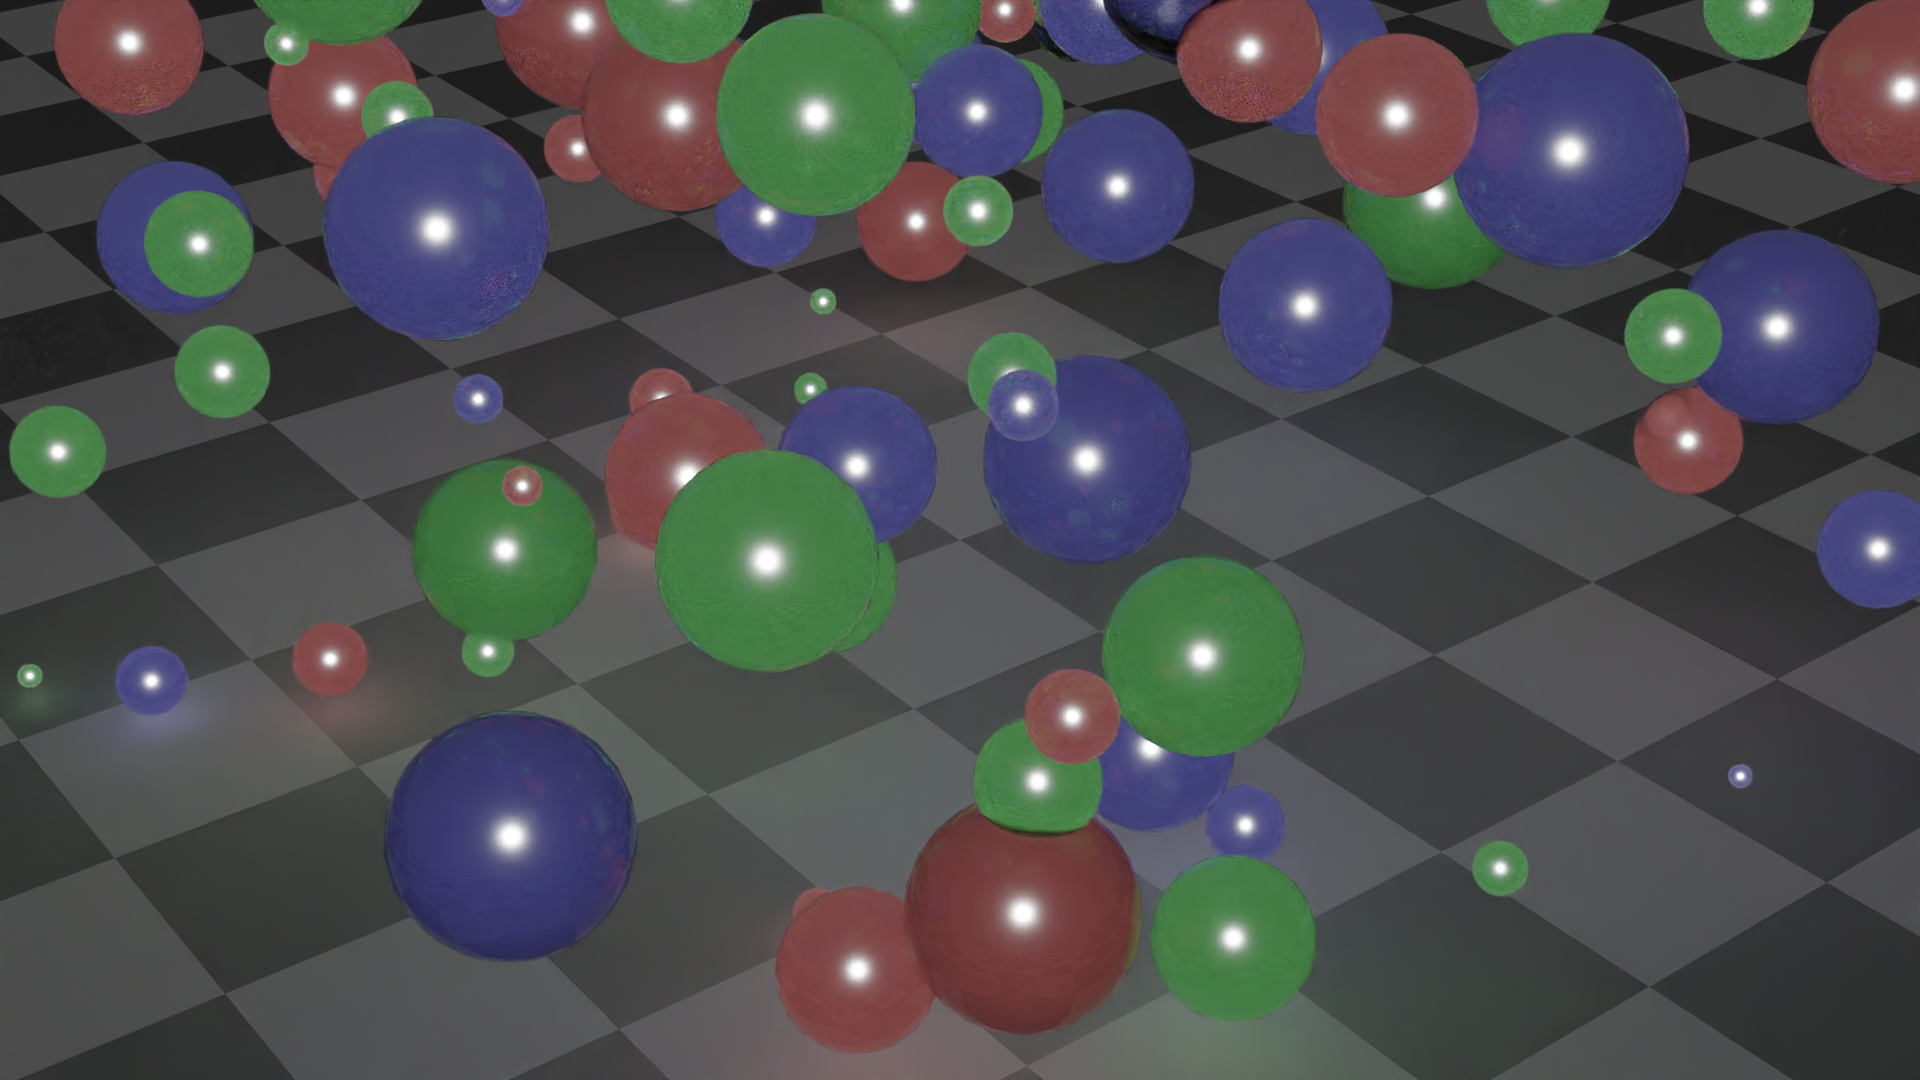
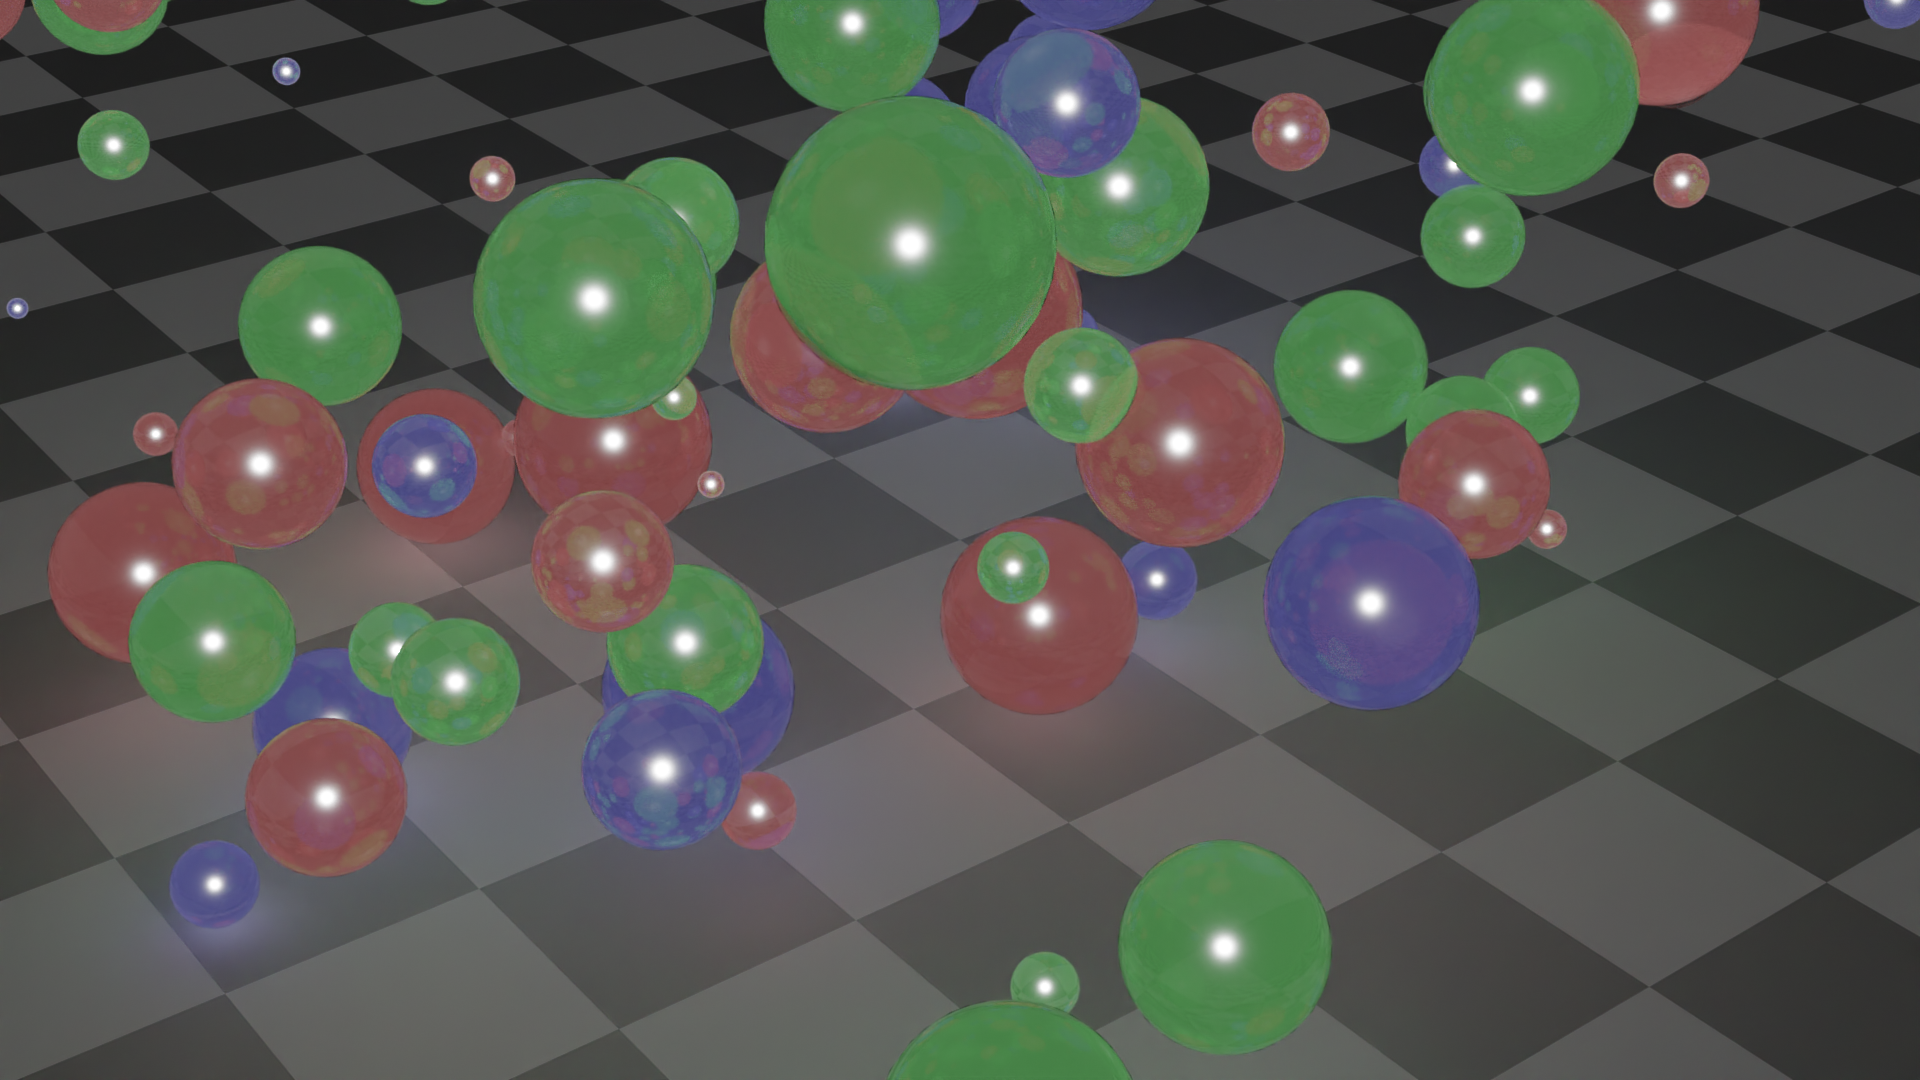
Reduce orb density to 1

diff --git a/orbs/run.py b/orbs/run.py
@@ -27,7 +27,7 @@ def setup_orb_material(mat, color):
     surface.inputs['IOR'].default_value = 1.45
 
     volume.inputs['Color'].default_value = color
-    volume.inputs['Density'].default_value = 3
+    volume.inputs['Density'].default_value = 1
 
     mat.node_tree.links.new(surface.outputs['BSDF'], output.inputs['Surface'])
     mat.node_tree.links.new(volume.outputs['Volume'], output.inputs['Volume'])
